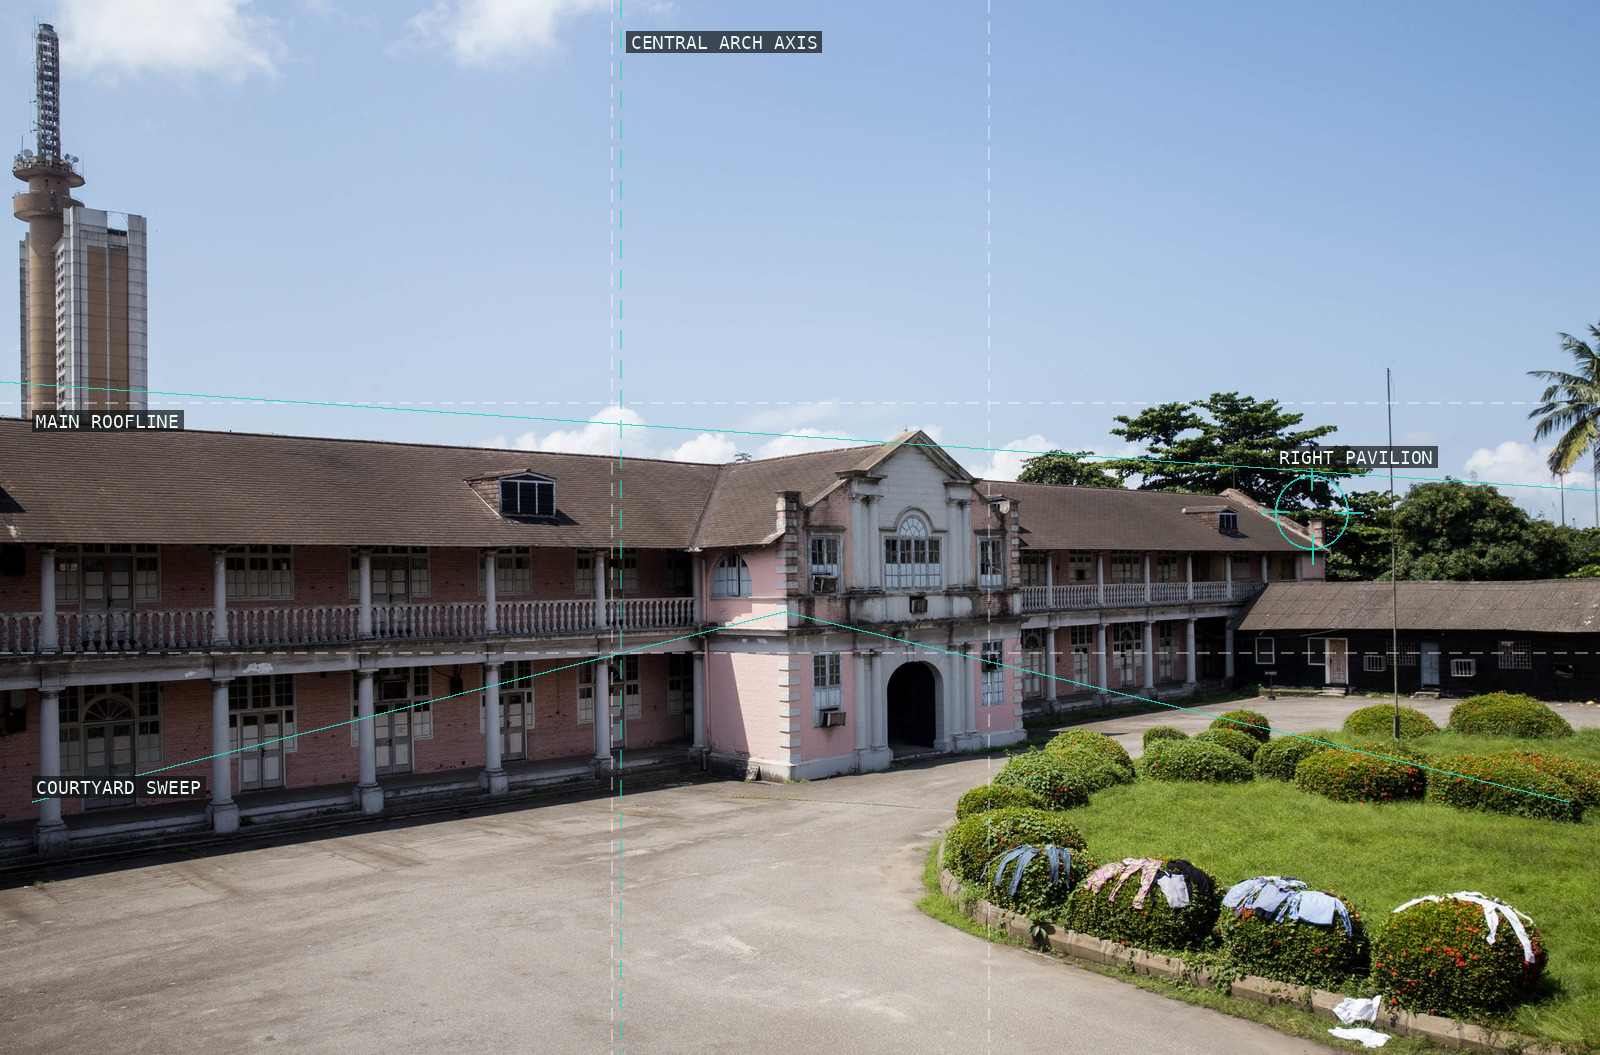
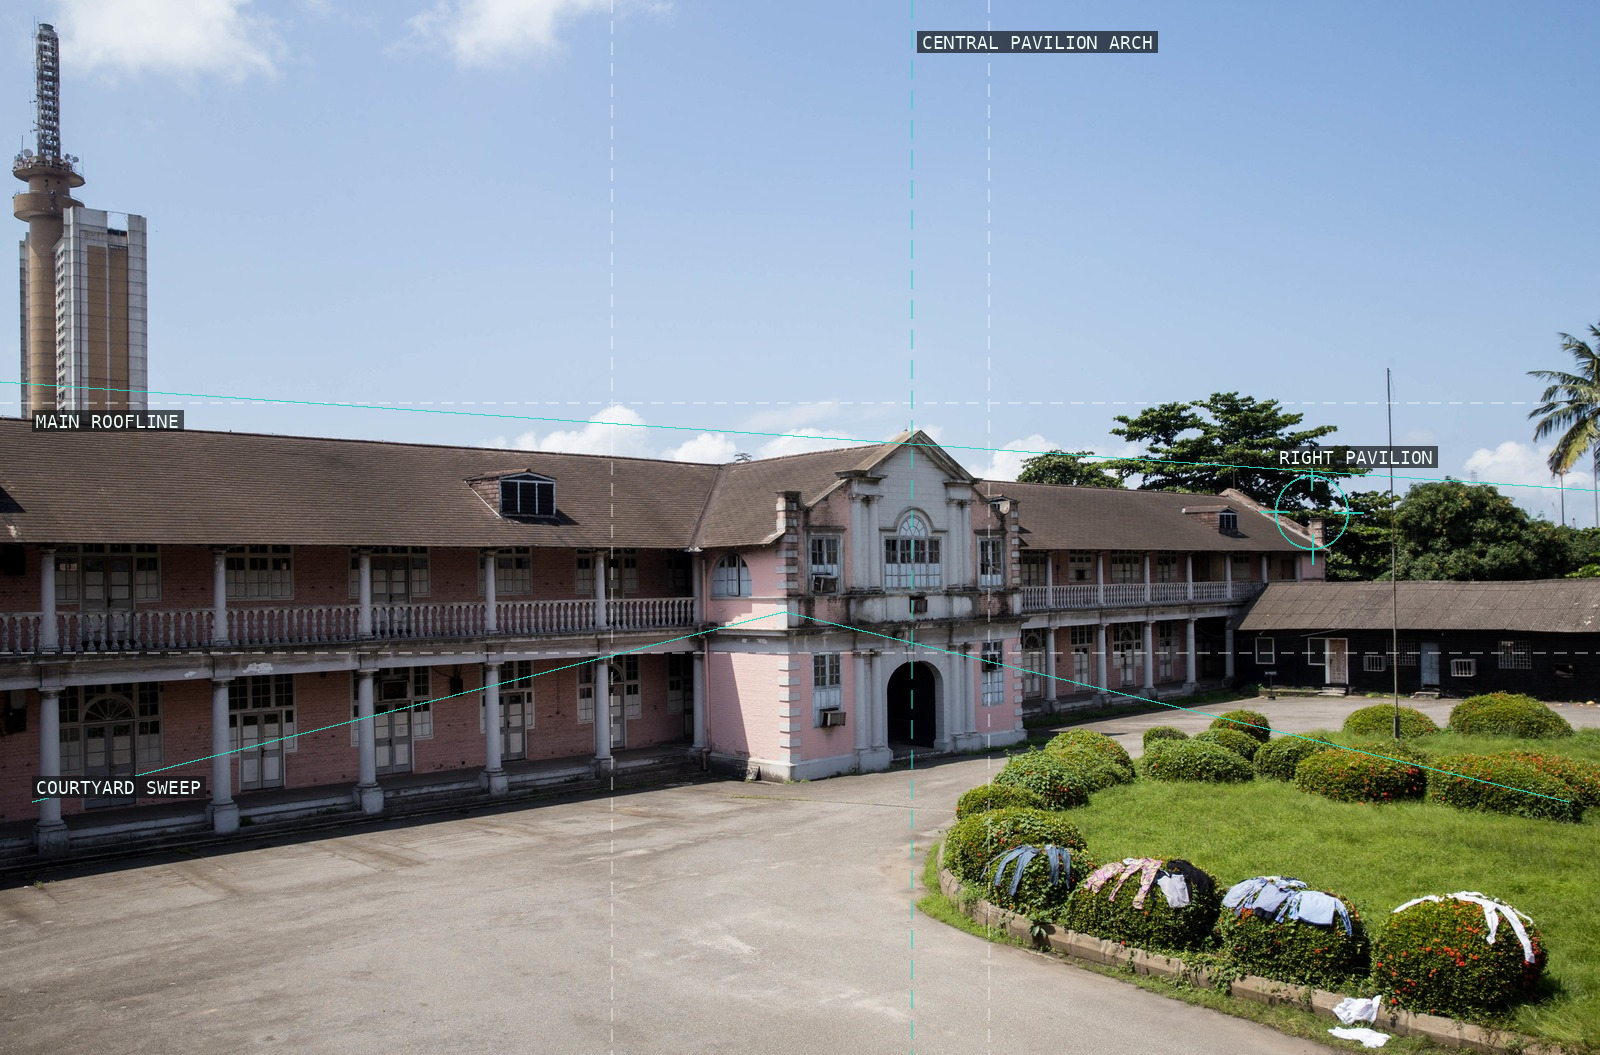
resolve critique: amanda-iheme

Changed region(s): [[0.5625, 0.0303, 0.75, 0.0607], [0.375, 0.0303, 0.5312, 0.0607]]

diff --git a/content/amanda-iheme/critique.md b/content/amanda-iheme/critique.md
@@ -1,4 +1,4 @@
-verdict: revise
+verdict: resolved
 
 ## Critique round — 2026-08-02
 
@@ -30,3 +30,9 @@ verdict: revise
 - All twelve proofs were visually inspected. Each contains three to five distinct compositional primitives, and every current spec scores 100/100 with no scorer deductions or warnings.
 - The two fixes resolved in the prior round remain resolved: **04** now identifies the diagonally crossing utility cable, and **11** traces the low wall-and-ground boundary.
 - Sources remain traceable and consistently credited; the chapter makes no undocumented camera-setting claim, and the chapter’s reported tonal values match the analyzer within tolerance.
+
+## Builder resolution — 2026-08-02
+
+- Resolved required fix 1: the 06 axis now lands on the actual central-pavilion arch at x=0.570 and is labelled `CENTRAL PAVILION ARCH`; both synchronized chapter copies now distinguish that local axis from the broader lateral sweep.
+- Re-verified critique history: `f7cd3d84cb76a1d2a99c1c3cc96a510639799687` (required fixes for 04 and 11) and `1a3931998249b03ac2afe6d929dbf49deed75206` (the current 06 requirement). The 04 overlay/proof still identifies the diagonal `UTILITY CABLE`, and the 11 overlay/proof still traces the low `WALL-AND-GROUND BOUNDARY`.
+- Fresh analysis and strict scoring: the revised 06 overlay scores 90/100 with a clean visual proof. Its only deduction is the analyzer’s alternative balance axis at x=0.388, intentionally not restored because it does not trace the annotated pavilion arch. The semantic correction remains the more truthful annotation. `scripts/check.sh` passes.
